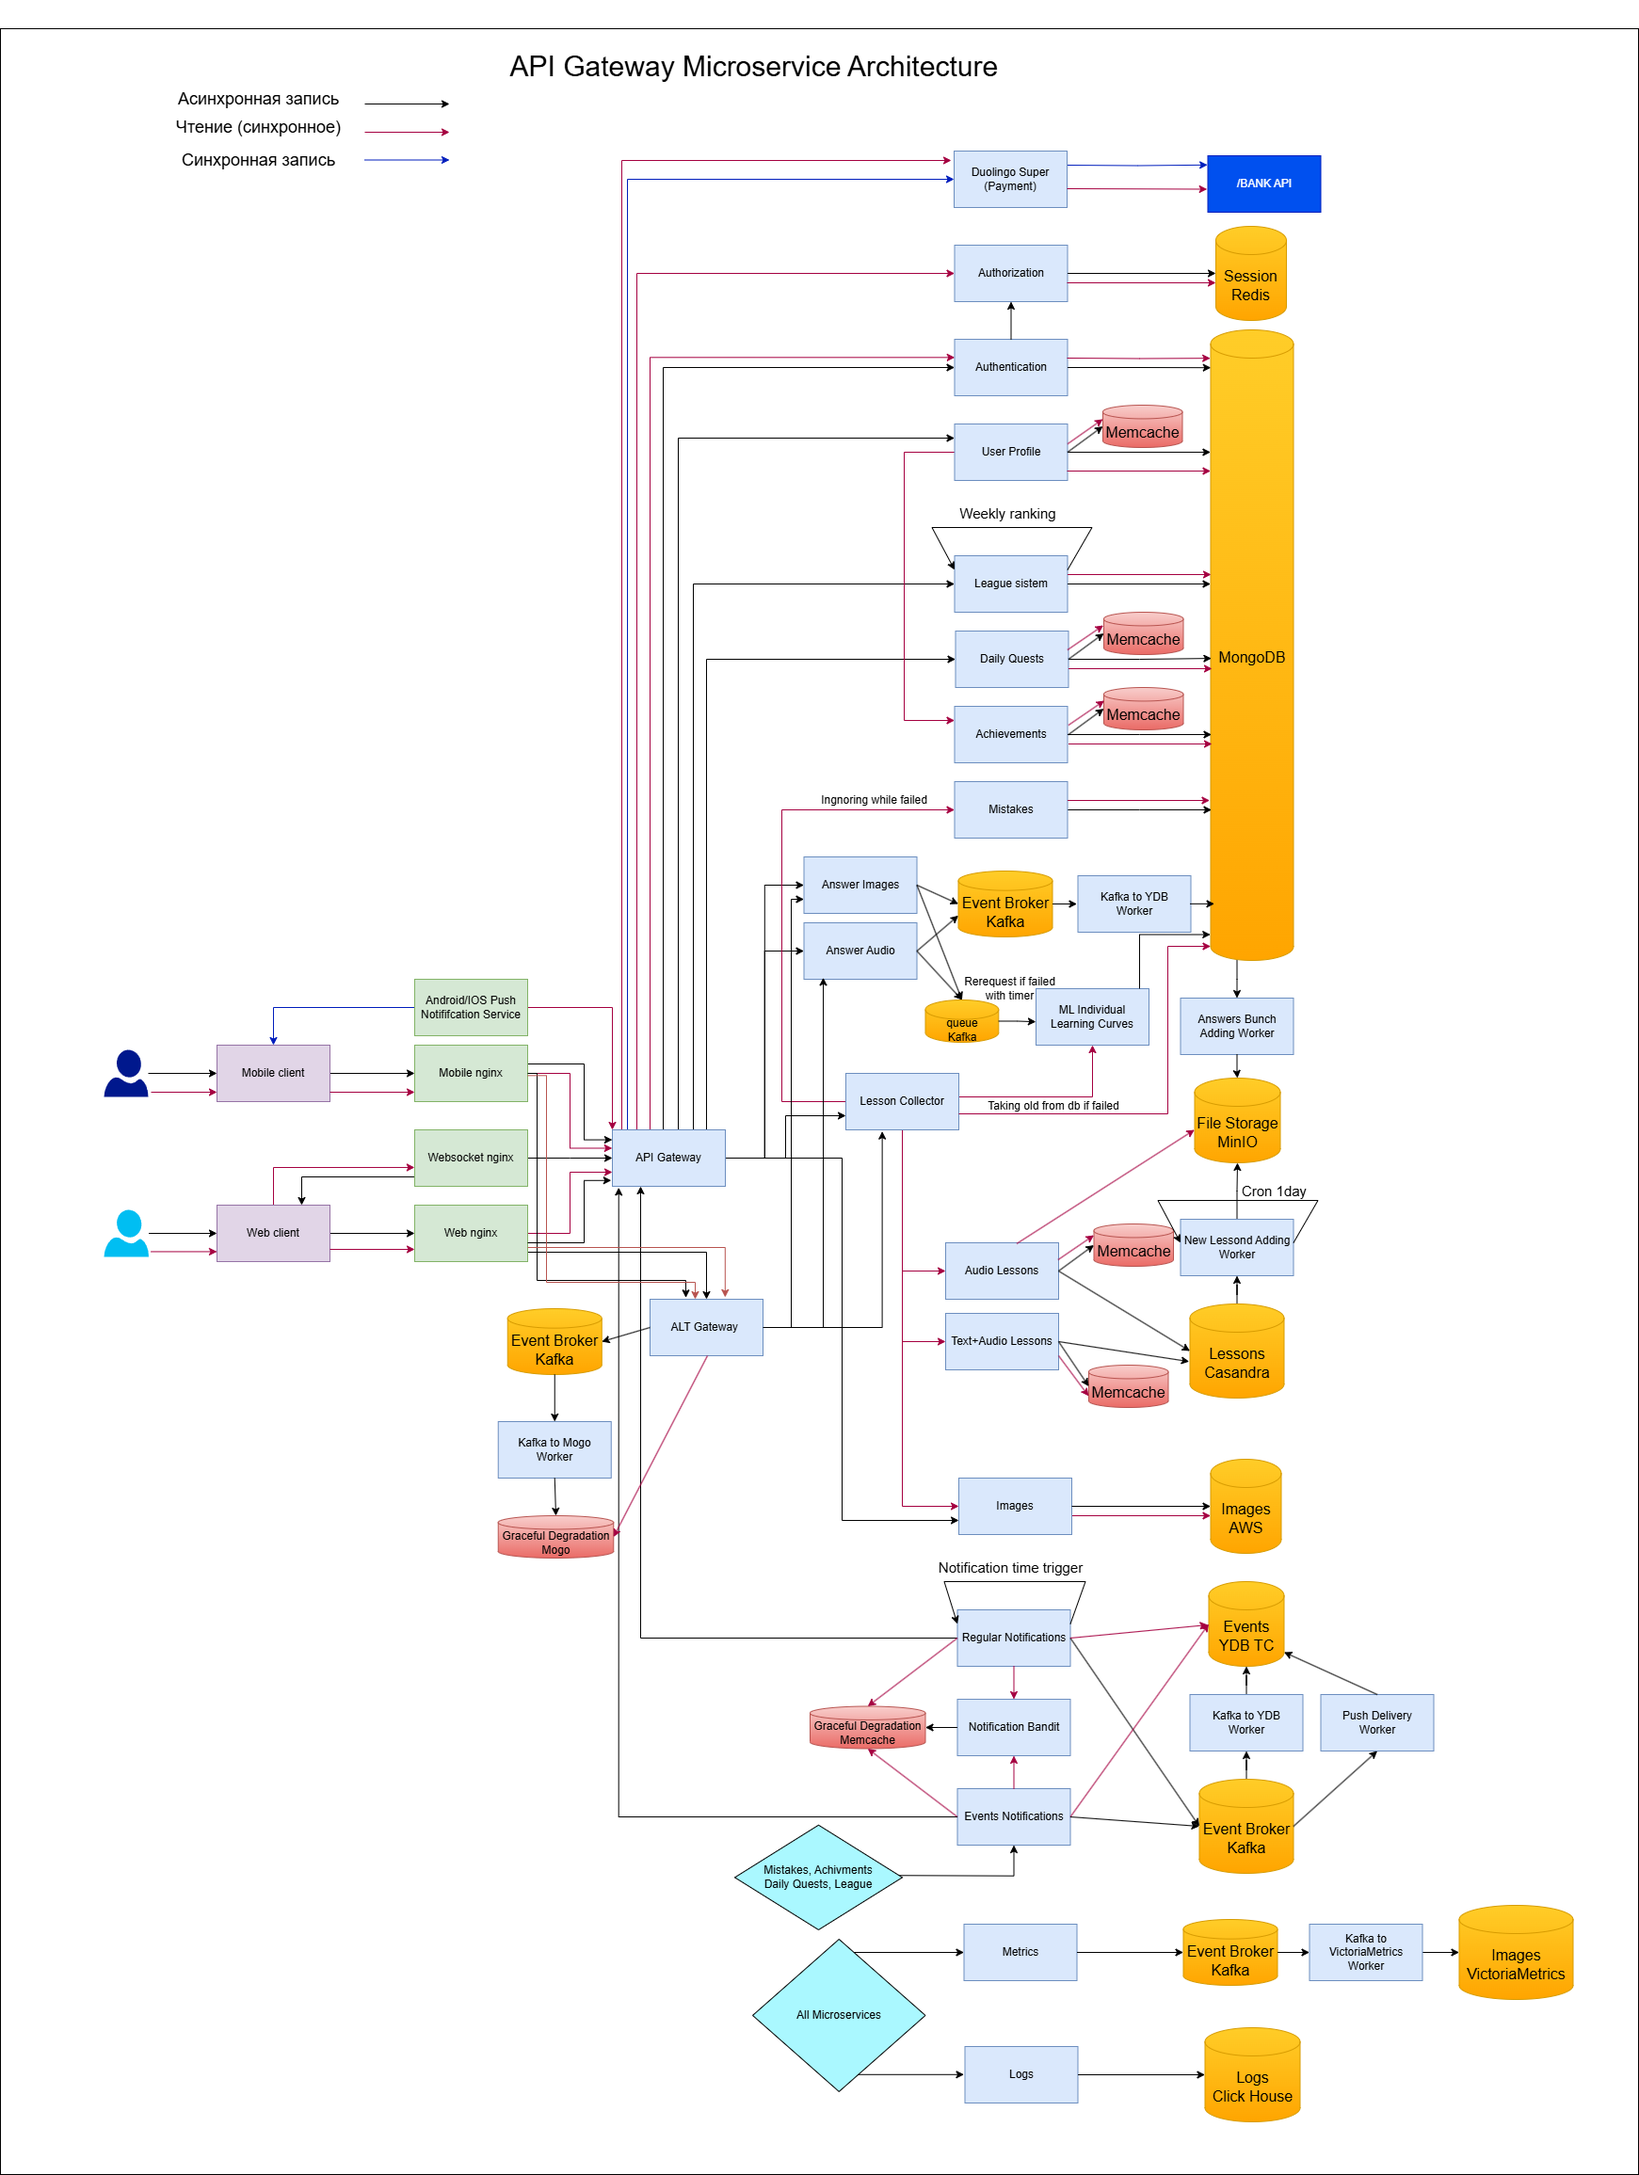
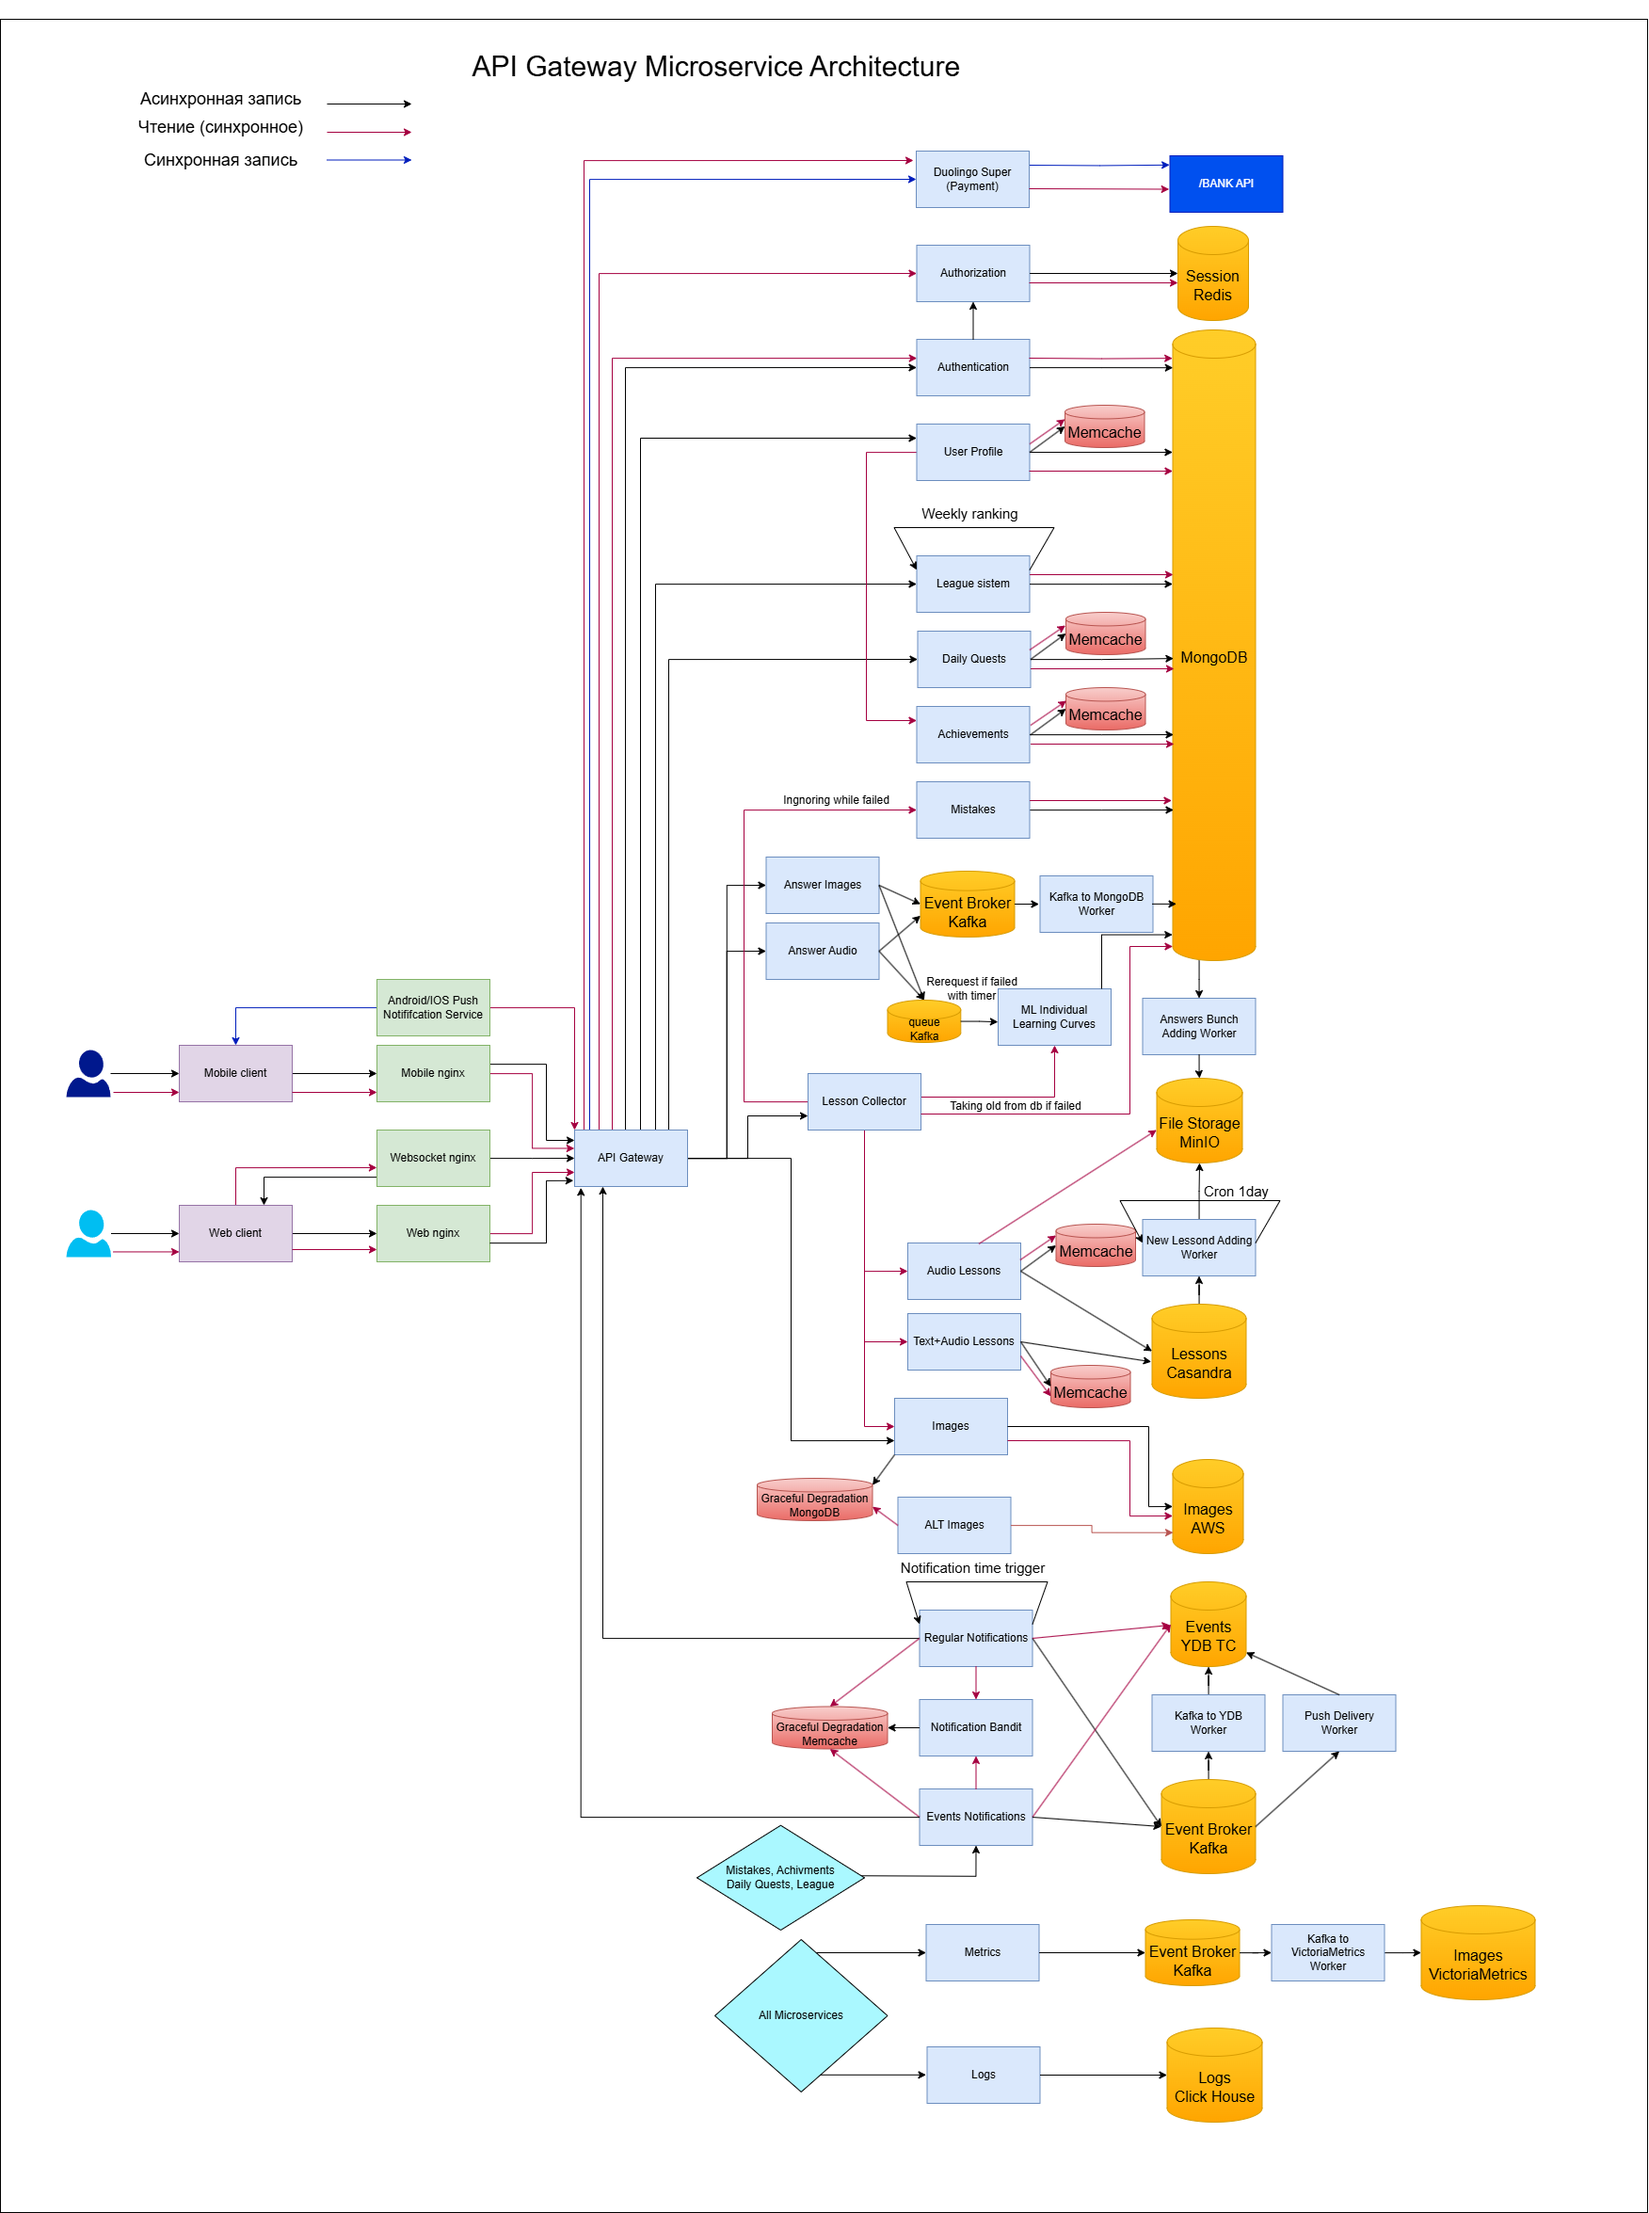
9 corrections

diff --git a/README.md b/README.md
@@ -587,7 +587,7 @@ MongoDB-клиенты используют пулы соединений для
 1. ML Individual Learning Curves - отдельный микросервис выполняющий трудоемкую работу на основе ML. ML модели часто меняются обновляются и откатываются, а небольшая задержка в повышении уровня языкового знания пользователя будет не очень критична, если со временем это исправится, исправлять планируется с помощью промежуточной базы данных, которая перезаправшивает все запросы при восстановлении работы ML Individual Learning Curves. Микросервис Lesson Collector при падении бедт брать данные об уровне пользователя сохранненые в БД.
 2. Mistakes - самостоятельный микросевис активно участвующий в каждом формировании урока, однако может отказать - но если в некоторых уроках не будет отработки ошибок пользователя это заденет гораздо меньше, чем если у него перестанут грузиться все уроки.
 3. Notification Bandit - микросервис выполняющий сложеный ML анализ, однако если он откажет лучше обратиться к проверенным текстам уведомлений хранимых в отдельной БД чем не присылать уведомления вовсе.
-4. API Gateway - является единой точкой отказа, поэтому разработан ALT Gateway который объединяет в себе основные функции сервиса в упрощенном виде, самостоятельно обращаясь к микросервисам на случай если они работают и сохраняющий необходимые метаданные, для восстановления прогресса пользоватлей после старта полноценного пути.
+4. Images - важный микросервис формирующий актулальные интересные пользователям изображения, для того чтобы картинки всегда были в нашем приложении используется сценарий graceful degradation с помощью сценария с использованием микрсоервиса ALT Images. Так как изображения формируются на основе векторов содержащих комбинации большого базовых изображений, формируя их на основе пользовательской статистики, Images пока работает пишет эти вектора Graceful Degradation DB. А когда Images падает, на основе векторов из Graceful Degradation MongoDB микросервис ALT Images понимает последнюю тенденцию и разбавляет старые вектора новыми пусть и менее каченственными.
 
 ## 10. Схема проекта
 
